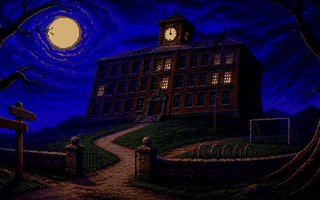
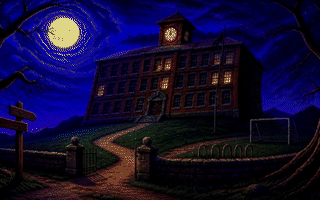
Graf Nimmerjetzt als Figur, Freistellen vor Grün in vga.py, gemeinsame Palette
Claude-Session: https://claude.ai/code/session_019H7rwt135JG9v236HZb46w

diff --git a/scripts/vga.py b/scripts/vga.py
@@ -7,6 +7,7 @@ Beispiele:
   python scripts/vga.py hintergrund.png out.png --palette assets/palette.png   (gemeinsame Palette)
   python scripts/vga.py graf.png assets/sprites/graf.png --sprite --height 90 --palette assets/palette.png
   python scripts/vga.py a.png b.png c.png --make-palette assets/palette.png --colors 128
+  python scripts/vga.py graf_gruen.png assets/sprites/graf.png --sprite --key-green   (Figur vor Gruen freistellen)
 
 Benoetigt: pip install pillow
 """
@@ -29,6 +30,21 @@ def fit_cover(im, w, h):
     im = im.resize((nw, nh), Image.LANCZOS)
     left, top = (nw - w) // 2, (nh - h) // 2
     return im.crop((left, top, left + w, top + h))
+
+
+def key_green(im):
+    """Stellt eine Figur vor einfarbigem Gruen frei und nimmt den gruenen Saum an den Kanten weg."""
+    rgba = im.convert("RGBA")
+    px = rgba.load()
+    for y in range(rgba.height):
+        for x in range(rgba.width):
+            r, g, b, a = px[x, y]
+            spill = g - max(r, b)
+            if spill > 60 and g > 120:
+                px[x, y] = (0, 0, 0, 0)
+            elif spill > 0:
+                px[x, y] = (r, max(r, b), b, a)
+    return rgba
 
 
 def load_palette(path):
@@ -57,6 +73,7 @@ def main():
     ap.add_argument("--palette", help="PNG mit gemeinsamer Palette (siehe --make-palette)")
     ap.add_argument("--make-palette", help="Erzeugt aus allen Eingaben eine gemeinsame Palette und speichert sie hier")
     ap.add_argument("--sprite", action="store_true", help="Figur mit Transparenz statt Hintergrund")
+    ap.add_argument("--key-green", action="store_true", help="Figur vor Gruen (Chroma Key) freistellen (bei --sprite)")
     ap.add_argument("--height", type=int, default=90, help="Zielhoehe einer Figur in Pixeln (bei --sprite)")
     ap.add_argument("--contrast", type=float, default=1.15)
     ap.add_argument("--color", type=float, default=1.2)
@@ -85,7 +102,7 @@ def main():
     im = Image.open(src)
 
     if a.sprite:
-        rgba = im.convert("RGBA")
+        rgba = key_green(im) if a.key_green else im.convert("RGBA")
         bbox = rgba.getchannel("A").point(lambda v: 255 if v > 40 else 0).getbbox()
         if bbox:
             rgba = rgba.crop(bbox)

diff --git a/CLAUDE.md b/CLAUDE.md
@@ -56,12 +56,17 @@ mit viel Licht und Schatten, der Graf unter der Kapuze nur mit zwei glühenden A
   Lokal liegen beide nur als 600 × 338 Pixel große Canva-Vorschau in `assets/raw/` (`schule_nacht_600px.png`,
   `schule_nacht_gerade_600px.png`), weil die Cloud-Umgebung `export-download.canva.com` nicht erreicht.
   Für 320 × 200 reicht das. Die schiefe Fassung ist schon umgerechnet: `assets/bg/schule_nacht.png`
-  (noch ohne gemeinsame Palette). Die Canva-Arbeitsdatei mit beiden Bildern: https://canva.link/mp6p64febvogrh4
+  (mit gemeinsamer Palette). Die Canva-Arbeitsdatei mit allen Bildern: https://canva.link/mp6p64febvogrh4
+- Graf Nimmerjetzt als Figur: in Canva vor Grün erzeugt (https://www.canva.com/M/MAHWVEdRLfQ), Rohbild
+  `assets/raw/graf_gruen_600px.png`, freigestellt und umgerechnet nach `assets/sprites/graf.png` (52 × 90).
+  `scripts/vga.py` kann dafür jetzt mit `--key-green` Figuren vor Grün freistellen.
+- Gemeinsame Palette (128 Farben) aus Schule und Graf: `assets/palette.png`. Bei neuen Bildern neu bauen und alles neu umrechnen.
+- Probemontage Einstellung 2/3 des Intros: `assets/test/schule_nacht_mit_graf.png`.
 
 ## Nächste Schritte
 
 1. Optional: „Schule bei Nacht“ in voller Auflösung aus der Canva-Arbeitsdatei exportieren und neu umrechnen.
-2. Den Grafen als gemalte Figur erzeugen (Morgenmantel, Kapuze, glühende Augen, Gesicht bleibt verborgen) und davorsetzen.
+2. Graf: Stil prüfen (Rüstung wirkt noch etwas türkis), bei Bedarf Laufphasen oder weitere Posen erzeugen.
 3. Wenn der Stil passt: übrige Intro-Einstellungen erzeugen (Hügel mit Aufschiebchen, Uhrwerk-Nahaufnahme,
    Nebel, Logo, Klassenzimmer) und das Intro nach dem Storyboard in `docs/konzept.md` neu bauen.
 4. Danach den Prolog als spielbare Szene bauen (Lösungsweg, Hotspots, Dialogbaum und Tipps stehen im Konzept).
